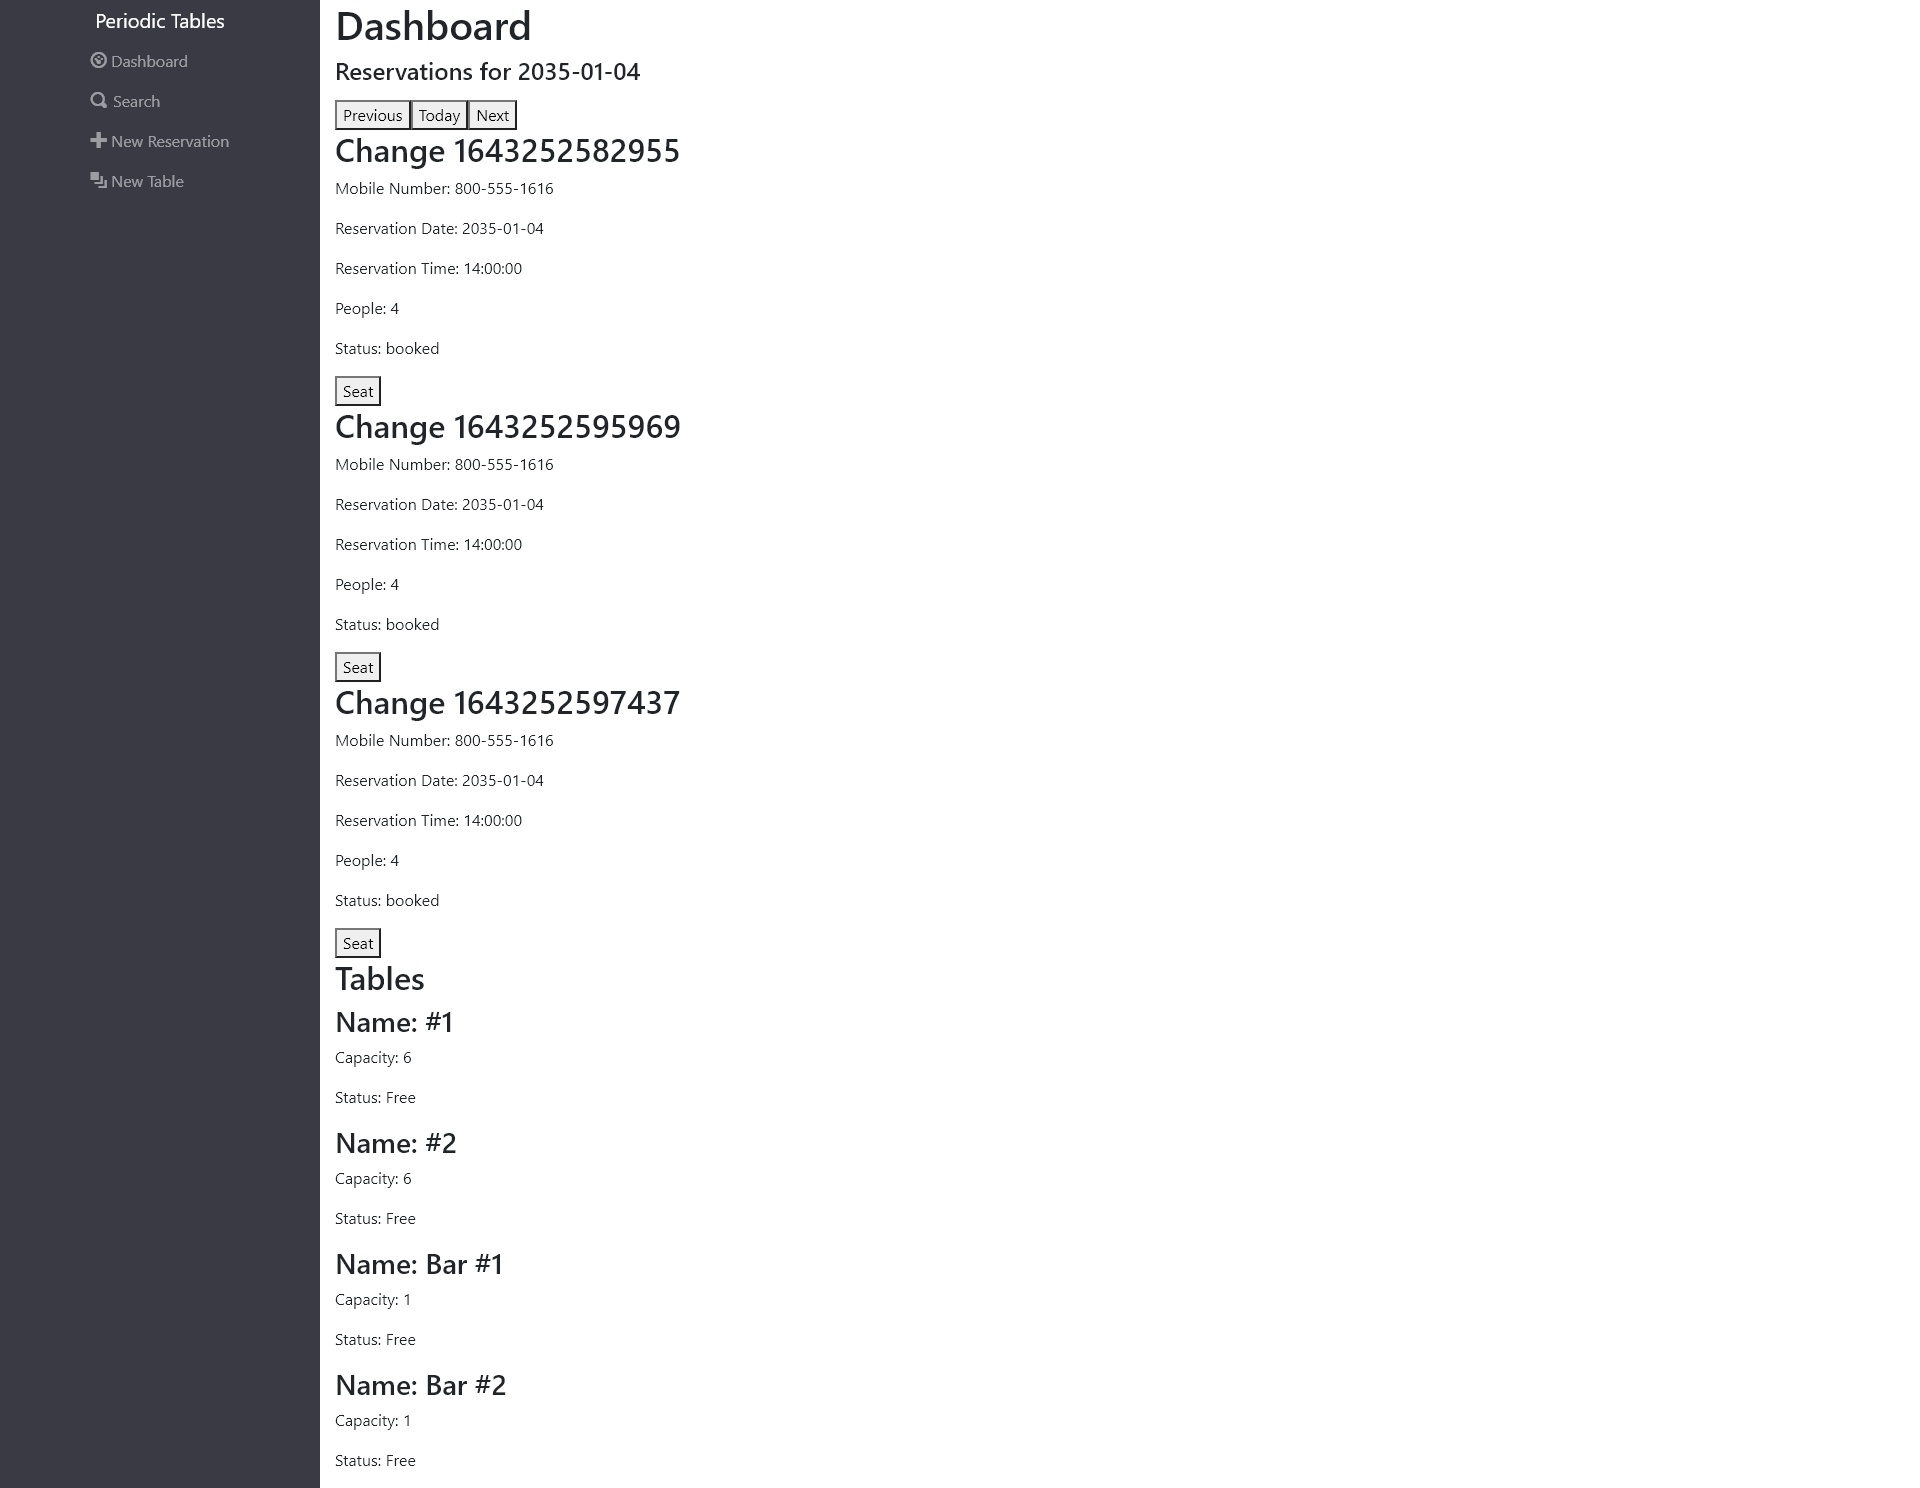
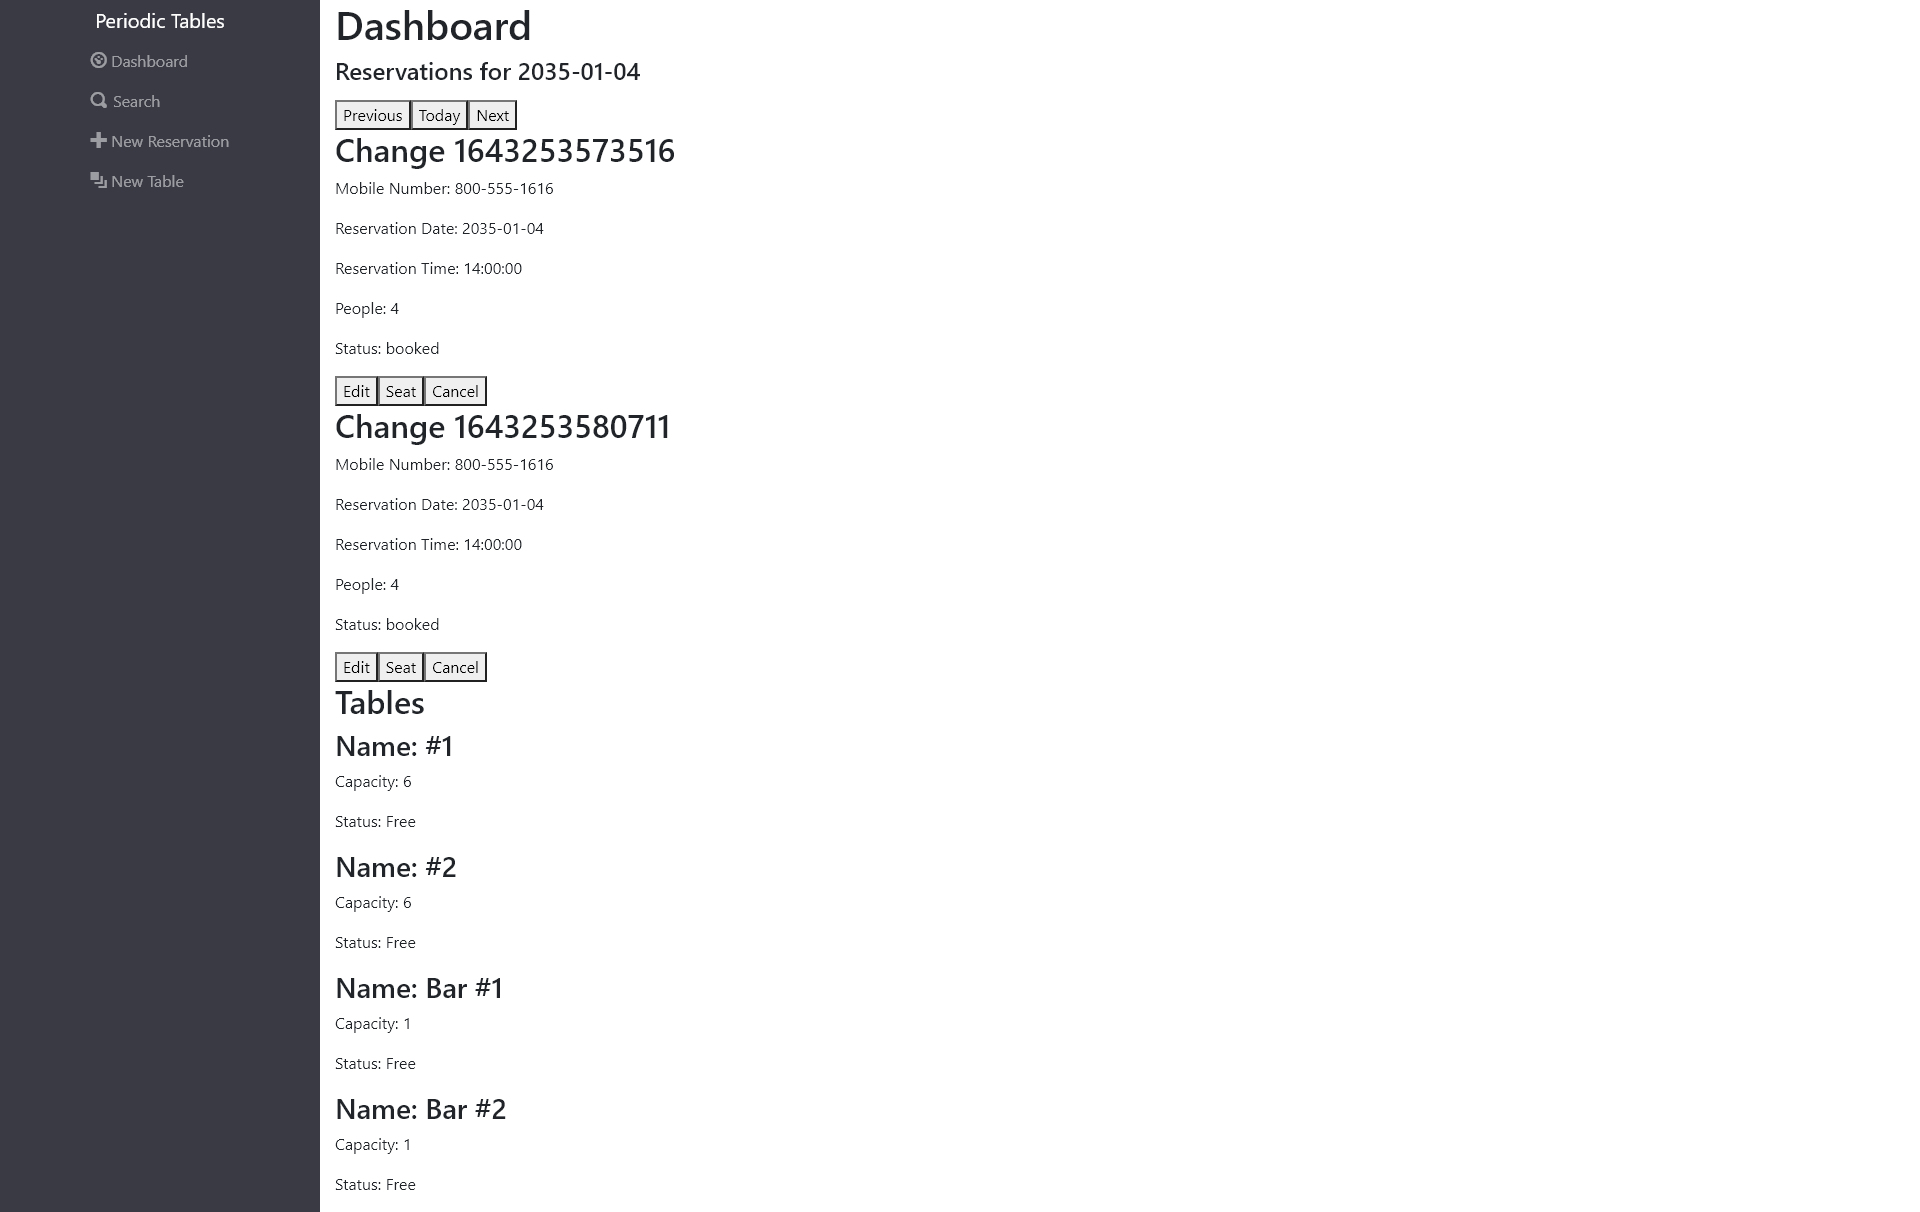
added buttons and routes for edit

Changed region(s): [[0.1562, 0.0, 0.3438, 1.0], [0.0312, 0.0, 0.125, 0.1526]]

diff --git a/front-end/src/reservations/Reservations.js b/front-end/src/reservations/Reservations.js
@@ -1,38 +1,59 @@
-import React, {useState} from "react";
+import React, { useState } from "react";
 import { useHistory } from "react-router";
+import { cancelReservation } from "../utils/api";
 import ErrorAlert from "../layout/ErrorAlert";
 
-export default function Reservations({ reservation }){
-
-    const history = useHistory();
-    const [error, setError] = useState(null);
-    function handleCancel() {
-        history.goBack();
+export default function Reservations({ reservation }) {
+  const history = useHistory();
+  const [error, setError] = useState(null);
+  async function handleCancel(reservation_id) {
+    if (
+      window.confirm(
+        "Do you want to cancel this reservation? This cannot be undone."
+      )
+    ) {
+      try {
+        await cancelReservation(reservation_id);
+        history.go();
+      } catch (err) {
+        setError(err);
+      }
     }
-    
-    
-    return (
-        <>
-        <ErrorAlert error={error} />
-            <div>
-                <h2>{reservation.first_name} {reservation.last_name}</h2>
-                <p>Mobile Number: {reservation.mobile_number}</p>
-                <p>Reservation Date:{" "} {reservation.reservation_date}</p>
-                <p>Reservation Time: {reservation.reservation_time}</p>
-                <p>People: {reservation.people}</p>
-                <p data-reservation-id-status={`${reservation.reservation_id}`}>
-                    Status: {reservation.status}
-                </p>
-                <div>
-                    {reservation.status === "booked" && (
-                        <a href={`/reservations/${reservation.reservation_id}/seat`}>
-                            <button>
-                                Seat
-                            </button>
-                        </a>
-                    )}
-                </div>
-            </div>
-        </>
-    );
+  }
+
+  return (
+    <>
+      <ErrorAlert error={error} />
+      {reservation.status !== "finished" && (
+        <div>
+          <h2>
+            {reservation.first_name} {reservation.last_name}
+          </h2>
+          <p>Mobile Number: {reservation.mobile_number}</p>
+          <p>Reservation Date: {reservation.reservation_date}</p>
+          <p>Reservation Time: {reservation.reservation_time}</p>
+          <p>People: {reservation.people}</p>
+          <p data-reservation-id-status={`${reservation.reservation_id}`}>
+            Status: {reservation.status}
+          </p>
+          <div>
+            <a href={`/reservations/${reservation.reservation_id}/edit`}>
+              <button>Edit</button>
+            </a>
+            {reservation.status === "booked" && (
+              <a href={`/reservations/${reservation.reservation_id}/seat`}>
+                <button>Seat</button>
+              </a>
+            )}
+            <button
+              onClick={() => handleCancel(reservation.reservation_id)}
+              data-reservation-id-cancel={`${reservation.reservation_id}`}
+            >
+              Cancel
+            </button>
+          </div>
+        </div>
+      )}
+    </>
+  );
 }

diff --git a/front-end/src/utils/api.js b/front-end/src/utils/api.js
@@ -104,6 +104,16 @@ export async function updateReservation(reservation, signal) {
   return await fetchJson(url, options, reservation);
 }
 
+export async function cancelReservation(reservationId, signal) {
+  const url = `${API_BASE_URL}/reservations/${reservationId}/status`;
+  const options = {
+    method: "PUT",
+    headers,
+    body: JSON.stringify({ data: { status: "cancelled" } }),
+    signal,
+  };
+  return await fetchJson(url, options);
+}
 
 export async function listTables(signal) {
   const url = `${API_BASE_URL}/tables`;

diff --git a/front-end/src/layout/Routes.js b/front-end/src/layout/Routes.js
@@ -25,6 +25,9 @@ function Routes() {
       <Route exact={true} path="/reservations/:reservation_id/seat">
         <SeatReservation />
       </Route>
+      <Route exact={true} path="/reservations/:reservation_id/edit">
+        <ReservationForm />
+      </Route>
       <Route exact={true} path="/reservations/new">
         <ReservationForm />
       </Route>
